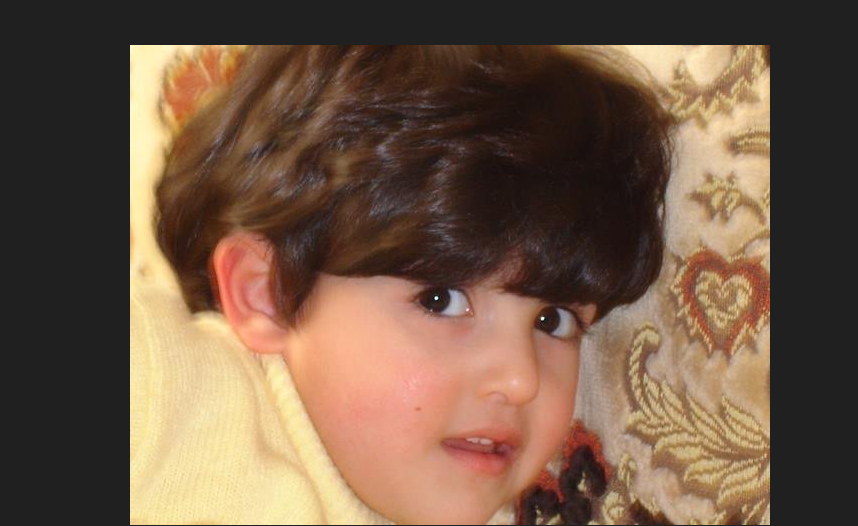
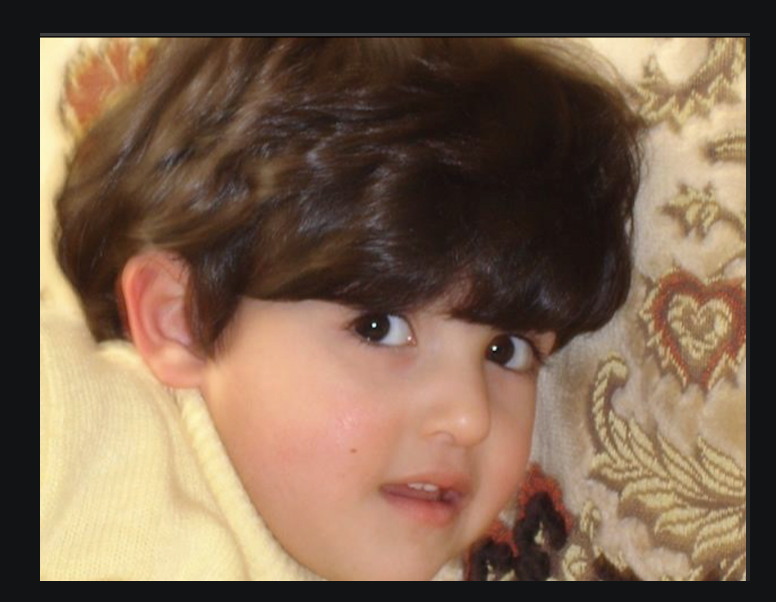
updated ghadeer's pfp

diff --git a/ui/src/features/about/about.html b/ui/src/features/about/about.html
@@ -62,14 +62,14 @@
                              alt="Ghadeer" 
                              style="width: 100%; height: 100%; object-fit: cover; object-position: 50% 30%; transform: scale(1.1);">
                     </div>
-                    <h3>Ghadeer A.</h3>
-                    <p>Software Engineer</p>
+                    <h3>Ghadeer Al Jufout</h3>
+                    <p>DevOps</p>
                 </div>
             </a>
             <a href="PLACE UR LINKEDIN HERE" target="_blank" class="team-card-link">
                 <div class="team-card">
                     <div style="width: 120px; height: 120px; border-radius: 50%; overflow: hidden; margin: 0 auto 15px auto;">
-                        <img src="./src/features/about/profile_pictures/ghadeerPFP.png" 
+                        <img src="./src/features/about/profile_pictures/" 
                              alt="Ivan" 
                              style="width: 100%; height: 100%; object-fit: cover; object-position: 50% 30%; transform: scale(1.1);">
                     </div>
@@ -80,7 +80,7 @@
             <a href="PLACE UR LINKEDIN HERE" target="_blank" class="team-card-link">
                 <div class="team-card">
                     <div style="width: 120px; height: 120px; border-radius: 50%; overflow: hidden; margin: 0 auto 15px auto;">
-                        <img src="./src/features/about/profile_pictures/ghadeerPFP.png" 
+                        <img src="./src/features/about/profile_pictures/" 
                              alt="Jadon" 
                              style="width: 100%; height: 100%; object-fit: cover; object-position: 50% 30%; transform: scale(1.1);">
                     </div>
